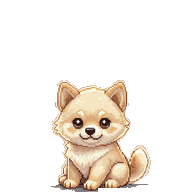
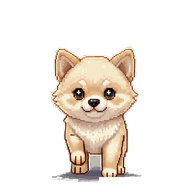
修两个 bug：提醒面板遮住宠物 + 柴犬走路没有动态
Bug 1 提醒面板盖住宠物（我 10-15 改提醒布局时引入）
- 原因：为避免弹提醒时宠物横跳，把宠物移到大窗口右侧（left:555），但胶囊仍在右侧 right:15
  → 宠物占 555..747、胶囊占 420..750，**完全重叠**，且胶囊 DOM 在后、盖在上面。
- 修法：改成按空间自动选方向。右边有 510px 空间就向右扩（宠物留在左侧原位、胶囊在右），
  否则向左扩（宠物在右、胶囊镜像到左侧 left:15）。两种情况都满足：
  ① 宠物屏幕位置与平时完全一致 ② 宠物与胶囊间隔 210px 永不重叠。
- 前端按 Rust 下发的 side 切换 .alerting-left 镜像布局。

Bug 2 柴犬拖动时没有走路动态
- 原因：包内 walk 帧是 09-15 早期管线的产物（狗几乎坐着不动，帧间差 11），
  9-23 那次重建只重做了出门/回来，没重做走路。源视频运动量本身正常（15.1 > 猫的 12.8）。
- 顺带审计发现同类问题（同一个选帧缺陷）：
    团团 focus-read 帧间差 0.73（猫看书是静止图）、两包 sleep 0.23/0.95（睡觉不呼吸）。
- 根因（选帧算法，踩了两次坑）：① 只按「首尾最像」找循环窗口 → 算法天生偏好最静止的片段
  （实测挑到视频结尾的定格段）② 只最大化帧间差异 → 会跨出动作边界（把睡觉视频里起床的帧
  抽进睡眠循环）。修成两段式：score = 窗口内平均帧间差 − 0.6×首尾差 选窗口，再在窗口内做
  差异最大化，并留出一个步长的闭合余量。
- 结果：柴犬 walk 11 → 40.8、sleep 0.23 → 25.2、猫 sleep 0.95 → 25.4、看书 0.73 → 14.0；
  接缝/步长 1.03~1.63×（≈正常一步，循环平滑）。

顺带修一个静默失效的检查
- build_v2 的 loop_diff 比的是 **alpha 通道**，所有帧轮廓相同 → 永远返回 0.00「OK」，
  这条「循环红线」从来没校验过任何东西。改为比 RGB，并改用「接缝/步长」比值判定
  （稀疏关键帧动画 4~6 帧不可能满足旧的 <5/255 绝对值红线）。

Changed region(s): [[0.25, 0.2188, 0.7812, 1.0]]

diff --git a/ui/index.html b/ui/index.html
@@ -51,10 +51,14 @@
 
   /* 提醒态：窗口向左扩（右缘对齐），宠物固定在大窗口右侧，
      这样「弹提醒」时宠物不会横跳（765-18-192=555）。 */
-  #stage.alerting #pet { left:555px; }
-  #stage.alerting #bubble { left:651px; }
-  #stage.alerting #card-pop { left:651px; }
-  #stage.alerting #timer-badge { display:none; }
+  /* 左扩（宠物贴近屏幕右缘时）：宠物放在大窗口右侧，胶囊改到左侧——两者必须分居两边，
+     否则 330px 宽的胶囊会把它整个盖住（2026-10-15 修的 bug）。 */
+  #stage.alerting-left #pet { left:555px; }
+  #stage.alerting-left #bubble { left:651px; }
+  #stage.alerting-left #card-pop { left:651px; }
+  #stage.alerting-left #pill { left:15px; right:auto; }
+  #stage.alerting #timer-badge, #stage.alerting-left #timer-badge { display:none; }
+  /* 右扩（默认）：宠物留在窗口左侧原位，胶囊在右侧——沿用默认定位，无需额外规则 */
 
   /* ===== 程序补间动作（幅度克制，避免与帧动画打架） ===== */
   @keyframes mBreath { 0%,100% { transform:scale(1,1) translateY(0); } 50% { transform:scale(1.008,1.022) translateY(0); } }

diff --git a/ui/pet.js b/ui/pet.js
@@ -809,13 +809,15 @@
       // 双保险：提醒到点时宠物必须在场（它若正在外面，Rust 已让它赶回来，
       // 这里再强制解除隐身，避免任何竞态导致"窗口弹了但宠物看不见"）
       if (petAway) setAway(false);
-      stageEl.classList.add("alerting"); // 放大窗口布局：宠物定位到右侧（见 index.html）
+      // 放大窗口：右扩时宠物留在左侧（默认定位），左扩时镜像到右侧（.alerting-left）
+      stageEl.classList.add("alerting");
+      stageEl.classList.toggle("alerting-left", e.payload.side === "left");
       setSteady("idle");
       showAlert(e.payload);
       pillEl.classList.add("show");
     });
     await listen("alert/hide", () => {
-      stageEl.classList.remove("alerting");
+      stageEl.classList.remove("alerting", "alerting-left");
       if (alerting) hideAlert(false);
     });
     await listen("pet/toast", (e) => toast(e.payload.text));

diff --git a/src-tauri/src/main.rs b/src-tauri/src/main.rs
@@ -155,6 +155,8 @@ struct AppState {
     react_final: AtomicBool,
     /// 本轮专注中被点击（开小差）的次数：进入新一轮专注时清零，结算时读取
     distractions: std::sync::atomic::AtomicU64,
+    /// 提醒态窗口展开方向："right" 右扩（宠物在左）/ "left" 左扩（宠物在右，需镜像）
+    alert_side: Mutex<String>,
     /// 是否正在拖拽（用于「拖拽中到点提醒延后到松手」）
     dragging: AtomicBool,
     /// 拖拽期间到点的提醒，等松手后补发
@@ -318,11 +320,24 @@ fn show_alert_ui(app: &AppHandle, kind: &str, limited: bool) {
         let _ = w.show(); // 隐藏态也要弹现提醒（interaction-spec 红线）
         let _ = w.set_size(LogicalSize::new(ALERT_SIZE.0, ALERT_SIZE.1));
         // 左扩 + 上移：尺寸/位移是逻辑值，窗口坐标是物理值 → 乘 scale 换算
-        // 提醒态窗口锚点：让「宠物」在两套窗口尺寸下屏幕位置不变。
-        // 水平：放宽后宠物画在窗口右侧（index.html 的 #stage.alerting #pet），
-        //       所以左移 PET_SIZE+PET_LEFT*2 的差值；垂直：底边对齐由高度差决定。
+        // 提醒态窗口锚点（2026-10-15 重做）：
+        // 目标有两个，必须同时满足——① 宠物的屏幕位置不变（否则「弹提醒」时宠物横跳）
+        // ② 胶囊与宠物不重叠（上一版把宠物移到大窗口右侧、胶囊却仍在右侧 → 宠物被完全遮住）。
+        // 做法：看右边还有没有 510px 空间，有就向右扩（宠物在左、胶囊在右，互不遮挡），
+        // 没有就向左扩（宠物在右、胶囊在左，由前端 .alerting-left 镜像）。
         let sc = w.scale_factor().unwrap_or(1.0);
-        let alert_dx = PET_LEFT_CSS - (ALERT_SIZE.0 - PET_LEFT_CSS - PET_BOX_CSS);
+        let right_space = w
+            .current_monitor()
+            .ok()
+            .flatten()
+            .map(|m| m.position().x as f64 + m.size().width as f64 - settings.pet_x)
+            .unwrap_or(0.0);
+        let side = if right_space >= ALERT_SIZE.0 * sc { "right" } else { "left" };
+        let alert_dx = if side == "right" {
+            0.0 // 右扩：宠物仍在窗口左侧原位（left:18），屏幕位置天然不变
+        } else {
+            PET_LEFT_CSS - (ALERT_SIZE.0 - PET_LEFT_CSS - PET_BOX_CSS)
+        };
         let pet_top_in_pet_win = PET_SIZE.1 - PET_BOTTOM_CSS - PET_BOX_CSS;
         let pet_top_in_alert_win = ALERT_SIZE.1 - PET_BOTTOM_CSS - PET_BOX_CSS;
         let alert_dy = pet_top_in_pet_win - pet_top_in_alert_win;
@@ -330,11 +345,16 @@ fn show_alert_ui(app: &AppHandle, kind: &str, limited: bool) {
             settings.pet_x + alert_dx * sc,
             settings.pet_y + alert_dy * sc,
         ));
+        *state.alert_side.lock().unwrap() = side.to_string();
     }
     state.alerting.store(true, Ordering::SeqCst);
     let _ = app.emit(
         "alert/show",
-        serde_json::json!({ "kind": kind, "limited": limited, "hide_bubble": settings.hide_bubble, "focus_min": settings.focus_min }),
+        serde_json::json!({
+            "kind": kind, "limited": limited, "hide_bubble": settings.hide_bubble,
+            "focus_min": settings.focus_min,
+            "side": state.alert_side.lock().unwrap().clone(),
+        }),
     );
     if kind == "focus-end" {
         // 完成庆祝（interaction-spec #5）
@@ -1376,6 +1396,7 @@ fn main() {
                 drag_pos: Mutex::new(None),
                 dragging: AtomicBool::new(false),
                 pending_alert: Mutex::new(None),
+                alert_side: Mutex::new("right".to_string()),
             });
 
             build_tray(&h2)?;
